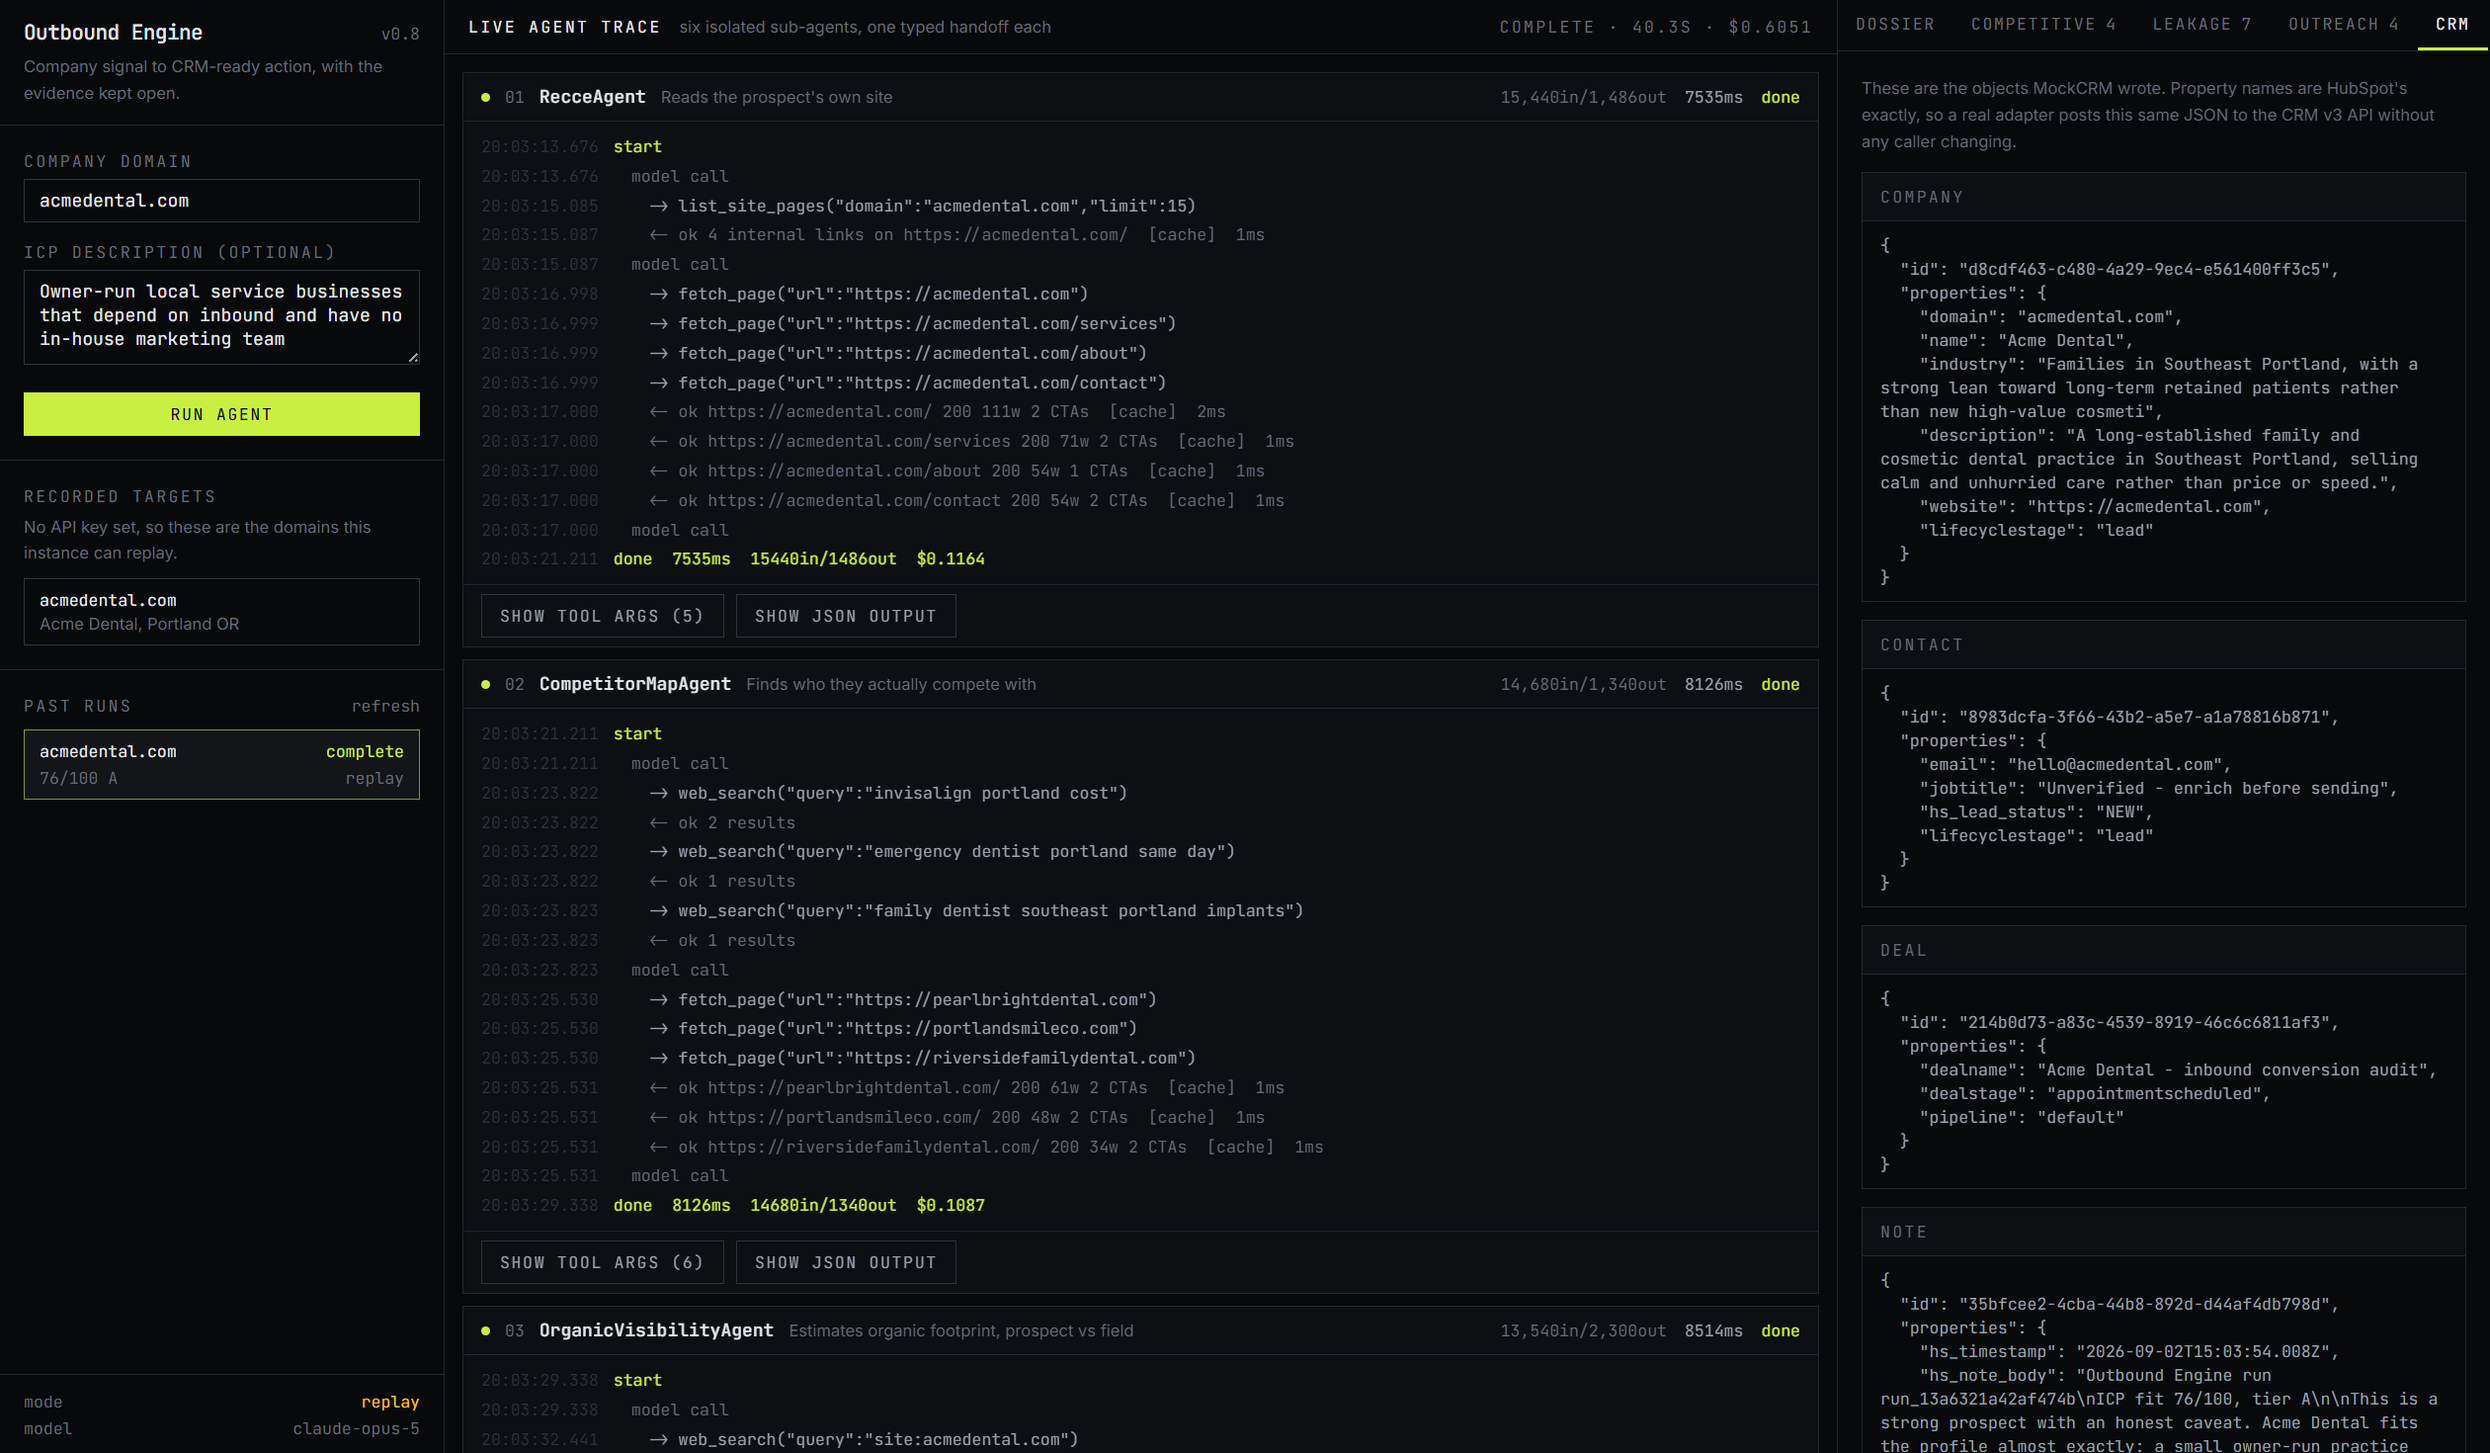
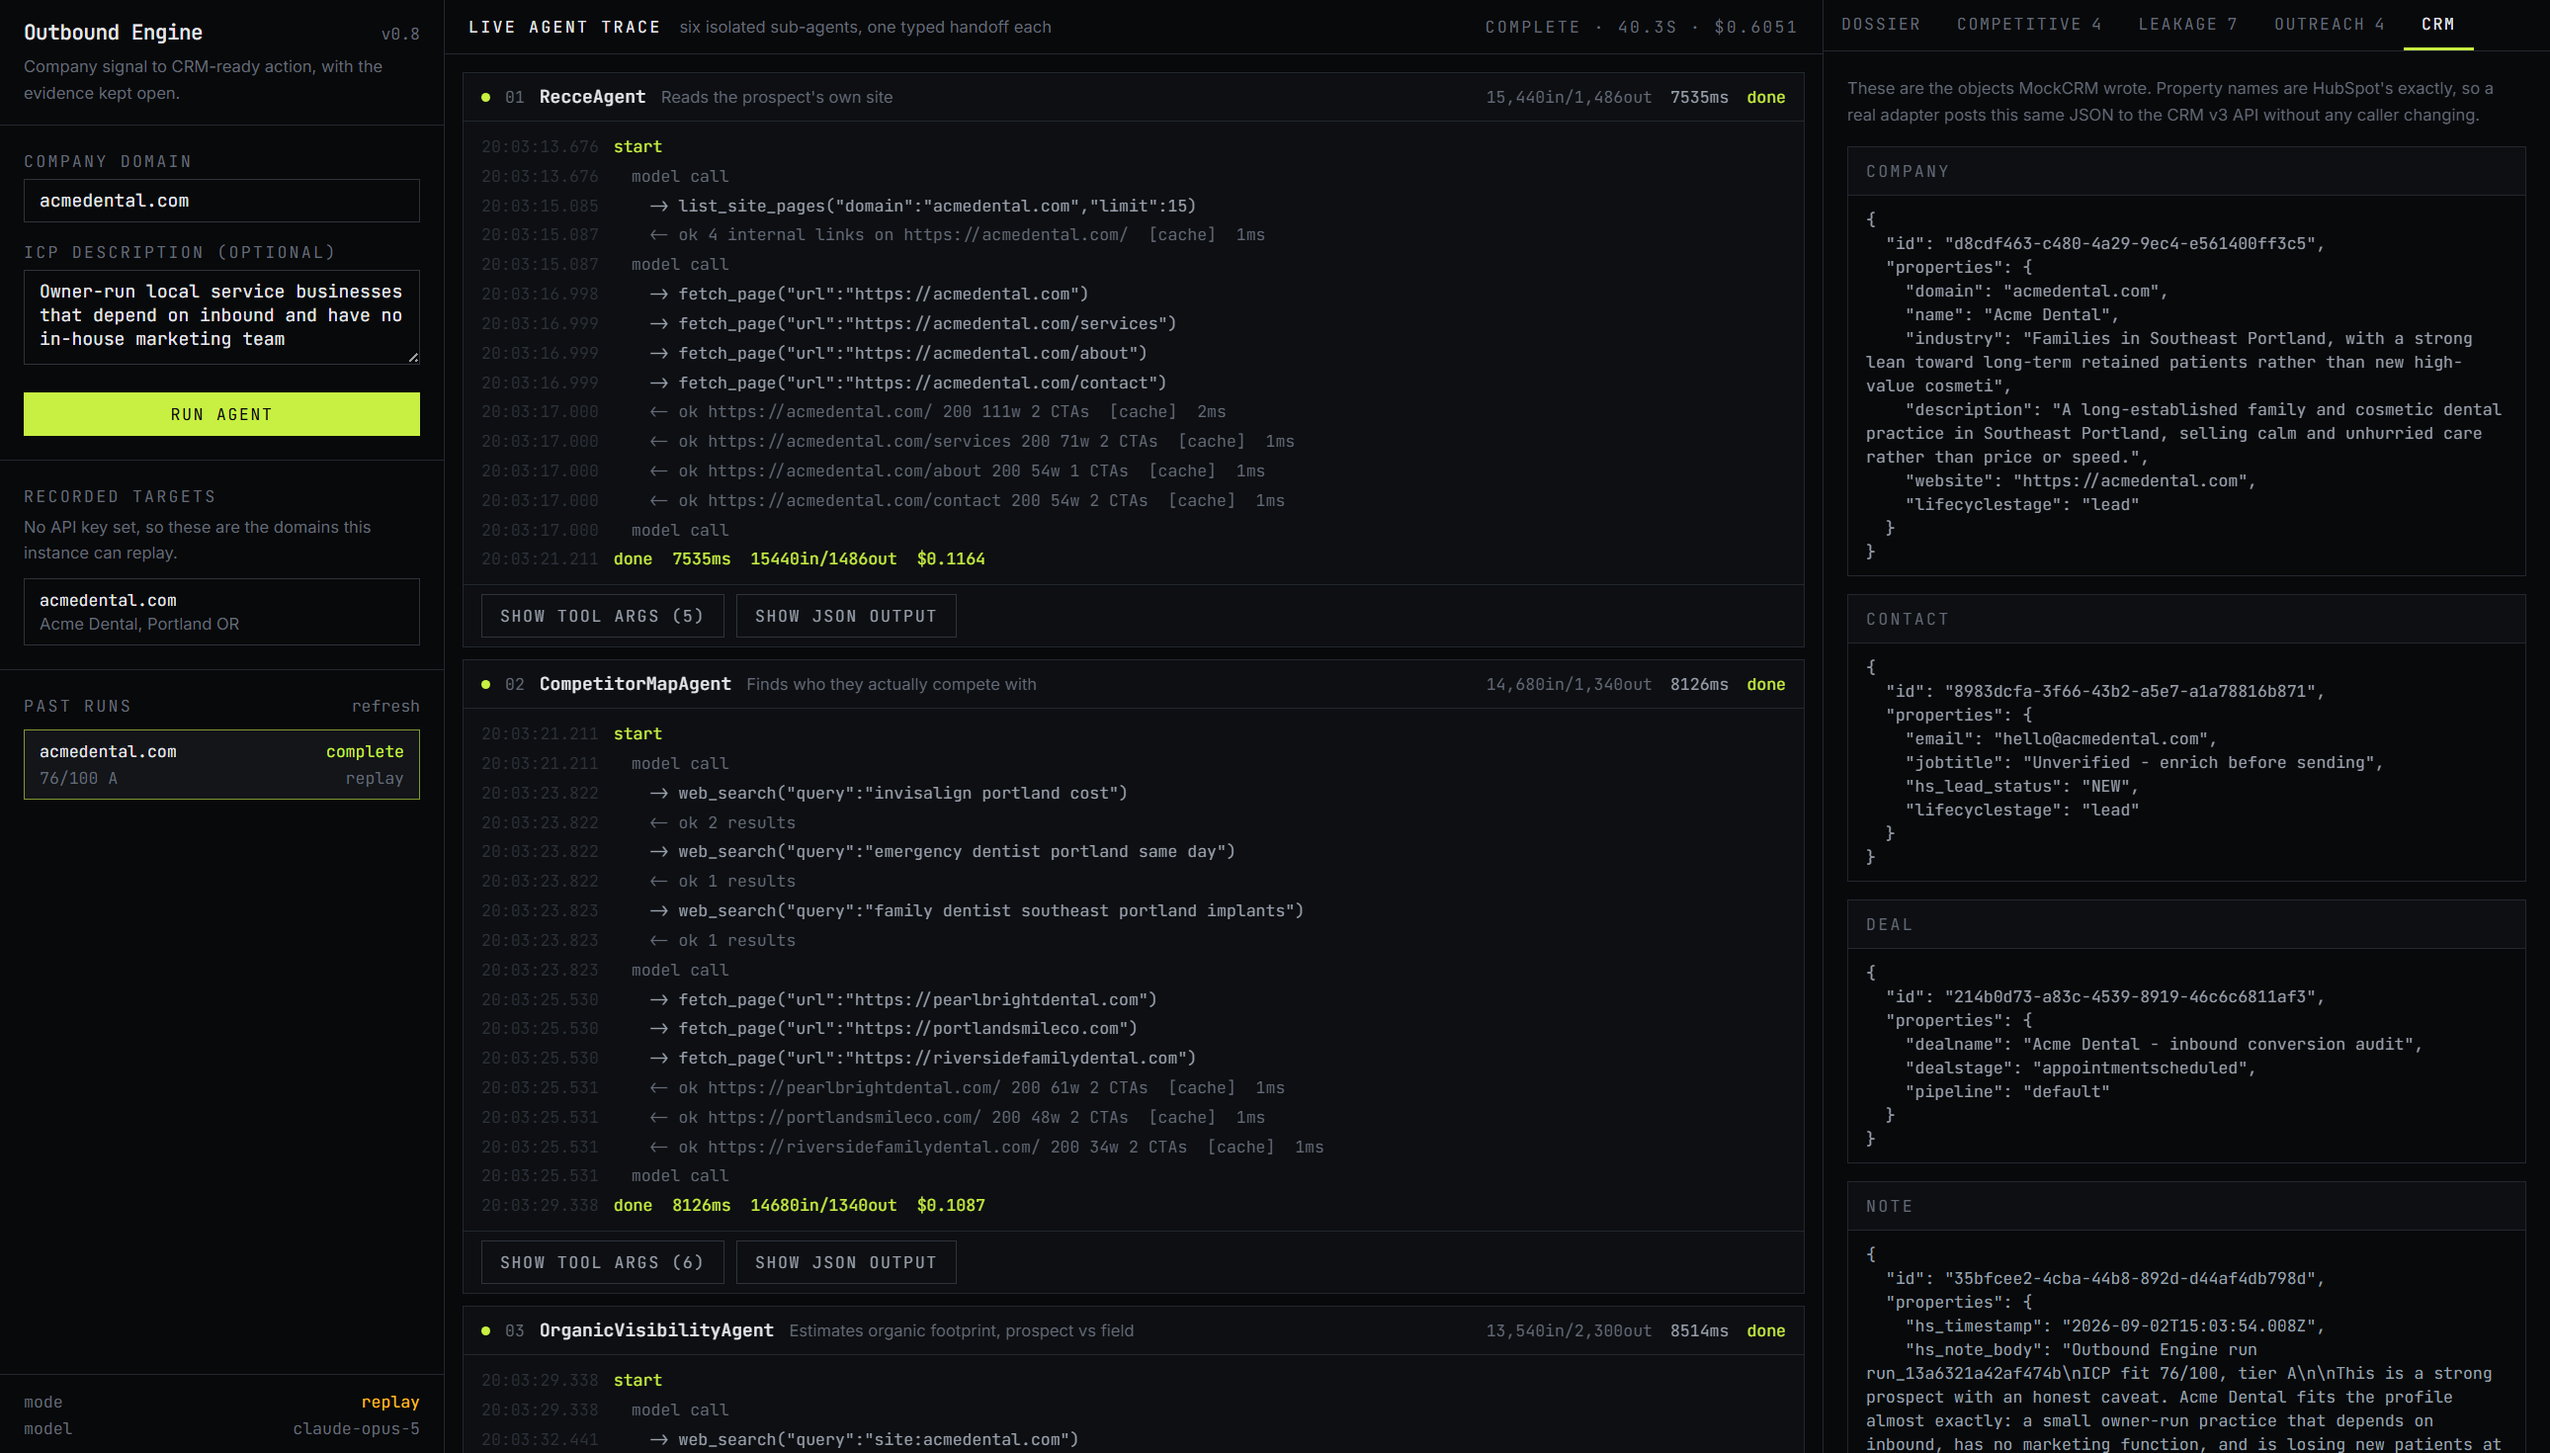
Show the console in the README, and fix the visibility table in a narrow panel
Five screenshots of a real seeded run, captured headless against a production
build, so the repo shows what it does before anyone installs it.

The organic visibility table was unreadable in the artifacts panel: the
coverage column wrapped to one word per line and domains snapped mid-word.
Coverage now clamps with the full text in the title, domains break at the TLD,
and the panel gains 50px.

diff --git a/components/artifacts.tsx b/components/artifacts.tsx
@@ -22,6 +22,23 @@ const COMPONENT_LABELS: Record<ScoringComponent, string> = {
   reachability: "Reachability",
 };
 
+/**
+ * Domains have no natural break points, so a narrow column snaps them
+ * mid-word ("acmedent / al.com"). Offering the browser a break before the TLD
+ * makes the wrap read as deliberate.
+ */
+function BreakableDomain({ domain }: { domain: string }) {
+  const split = domain.lastIndexOf(".");
+  if (split <= 0) return <>{domain}</>;
+  return (
+    <>
+      {domain.slice(0, split)}
+      <wbr />
+      {domain.slice(split)}
+    </>
+  );
+}
+
 function Empty({ children }: { children: React.ReactNode }) {
   return <p className="px-4 py-8 text-center text-2xs text-fg-faint">{children}</p>;
 }
@@ -34,18 +51,28 @@ function Badge({ children, className = "" }: { children: React.ReactNode; classN
   );
 }
 
-/** A metric always renders with its provenance. That is the whole point of it. */
-function MetricCell({ metric }: { metric: Metric }) {
+/**
+ * A metric always renders with its provenance. That is the whole point of it.
+ *
+ * `clamp` keeps a long qualitative value from turning a narrow table column
+ * into a one-word-per-line ribbon; the full text stays in the title.
+ */
+function MetricCell({ metric, clamp = false }: { metric: Metric; clamp?: boolean }) {
+  const provenance = metric.evidence.map((e) => `${e.source}\n${e.excerpt}`).join("\n\n");
   return (
-    <div className="group relative">
-      <span className={metric.basis === "estimated" ? "text-fg-dim" : "text-fg"}>
+    <div title={clamp ? `${formatMetric(metric)}\n\n${provenance}` : undefined}>
+      <span
+        className={`${metric.basis === "estimated" ? "text-fg-dim" : "text-fg"} ${
+          clamp ? "line-clamp-3" : ""
+        }`}
+      >
         {formatMetric(metric)}
       </span>
       <span
-        className={`ml-1.5 font-mono text-2xs ${
+        className={`font-mono text-2xs ${clamp ? "mt-0.5 block" : "ml-1.5"} ${
           metric.basis === "estimated" ? "text-state-warn" : "text-accent-dim"
         }`}
-        title={metric.evidence.map((e) => `${e.source}\n${e.excerpt}`).join("\n\n")}
+        title={provenance}
       >
         {metric.basis === "estimated" ? `est/${metric.confidence}` : "derived"}
       </span>
@@ -216,16 +243,16 @@ function Competitive({ artifacts }: { artifacts: RunArtifacts }) {
                     }`}
                   >
                     <td className="px-3 py-2 font-mono text-fg">
-                      {entry.domain}
-                      {entry.isProspect && (
-                        <span className="ml-1.5 text-accent-dim">prospect</span>
-                      )}
+                      <div>
+                        <BreakableDomain domain={entry.domain} />
+                      </div>
+                      {entry.isProspect && <span className="text-accent-dim">prospect</span>}
                     </td>
-                    <td className="px-3 py-2">
-                      <MetricCell metric={entry.indexedContentVolume} />
+                    <td className="whitespace-nowrap px-3 py-2">
+                      <MetricCell metric={entry.indexedContentVolume} clamp />
                     </td>
-                    <td className="max-w-[220px] px-3 py-2 text-fg-dim">
-                      <MetricCell metric={entry.topicalCoverage} />
+                    <td className="w-[46%] px-3 py-2 text-fg-dim">
+                      <MetricCell metric={entry.topicalCoverage} clamp />
                     </td>
                     <td className="px-3 py-2">
                       <span

diff --git a/components/console.tsx b/components/console.tsx
@@ -185,7 +185,7 @@ export function Console({ initialRuns, mode, model, recorded }: Props) {
       : "Enter a domain and the six sub-agents run in sequence. Each one is its own model call with its own tools and a strict JSON contract; nothing is shared between them except the typed output object.";
 
   return (
-    <div className="grid h-screen grid-cols-1 grid-rows-[auto_1fr] lg:grid-cols-[300px_1fr_440px] lg:grid-rows-1">
+    <div className="grid h-screen grid-cols-1 grid-rows-[auto_1fr] lg:grid-cols-[300px_1fr_490px] lg:grid-rows-1">
       {/* Left: input + history */}
       <aside className="flex flex-col overflow-y-auto border-b border-ink-500 lg:border-b-0 lg:border-r">
         <div className="border-b border-ink-500 px-4 py-3">

diff --git a/README.md b/README.md
@@ -5,16 +5,48 @@ domain; it runs six isolated sub-agents from first page fetch to CRM-ready
 action, streams every tool call and token to a live console, and hands back a
 scored dossier, a competitive read, a leakage report and a four-touch sequence.
 
-**It runs with no API key.** Clone, install, seed, `npm run dev`. The recorded
-run replays with its original tool calls and timings, and the tool calls really
-execute against a cached copy of the pages. Set `ANTHROPIC_API_KEY` and the
-same pipeline runs live against any domain.
+**It runs with no API key.** Clone, install, `npm run dev`. A completed run is
+already there on first load, and clicking the recorded target streams the whole
+pipeline again at its original pace, with the tool calls really executing
+against a cached copy of the pages. Set `ANTHROPIC_API_KEY` and the same
+pipeline runs live against any domain.
 
 ```bash
 npm install
-npm run seed     # one completed run, so the console has something in it
-npm run dev
+npm run dev      # localhost:3000, already seeded with a completed run
 ```
+
+---
+
+## What it looks like
+
+The centre column is the point. Six sub-agents, each its own model call, streaming
+nested tool calls with timestamps, cache hits, per-agent duration, tokens and cost.
+
+![The live agent trace and the scored dossier](docs/screenshots/dossier.png)
+
+Scoring weights live in `config/scoring.ts` and the weighting is applied in code, so
+the breakdown always reconciles with the headline number.
+
+**Competitive** — every figure carries its basis and confidence. Nothing here is a
+bare number: `est/medium` and `derived` are enforced by the schema, not the prompt.
+
+![Competitive set and organic visibility, every figure labelled](docs/screenshots/competitive.png)
+
+**Leakage** — conversion leakage on their own funnel, competitor leakage where a rival
+owns an intent cluster, each with evidence, an impact rating and a specific fix.
+
+![Conversion and competitor leakage findings](docs/screenshots/leakage.png)
+
+**Outreach** — four touches, editable before they go anywhere, each citing a finding
+this run actually produced. Subject length and word count are enforced by the schema.
+
+![The four-touch sequence, editable, each citing a finding](docs/screenshots/outreach.png)
+
+**CRM** — the exact payloads written, with HubSpot property names. Shown raw so the
+"a real adapter is a drop-in swap" claim is checkable rather than asserted.
+
+![The CRM payloads, with HubSpot property names](docs/screenshots/crm.png)
 
 ---
 
@@ -353,8 +385,8 @@ tests/                      30 tests, fully offline
 ## Commands
 
 ```bash
-npm run dev          # console at localhost:3000
-npm run seed         # one completed run, idempotent
+npm run dev          # console at localhost:3000, seeded on first request
+npm run snapshot     # re-capture the seeded run from a live pipeline pass
 npm run agent        # headless pipeline
 npm run agent:sdk    # Agent SDK + MCP variant (needs credentials)
 npm run mcp          # MCP server on stdio
